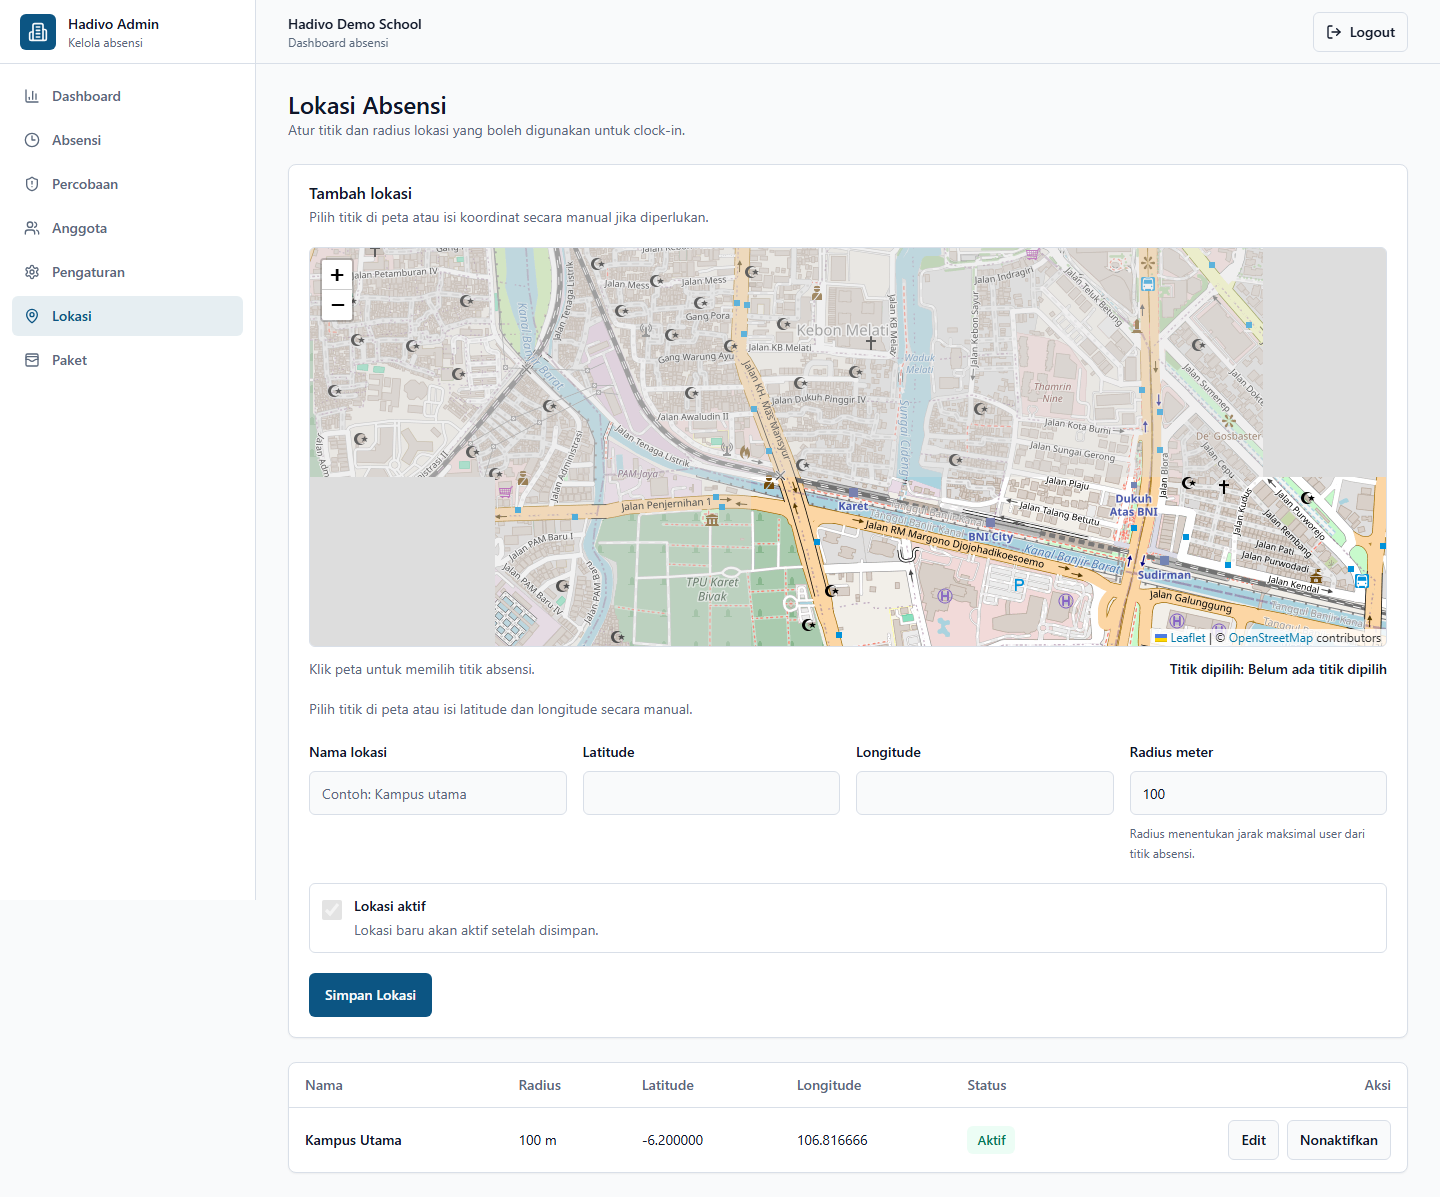
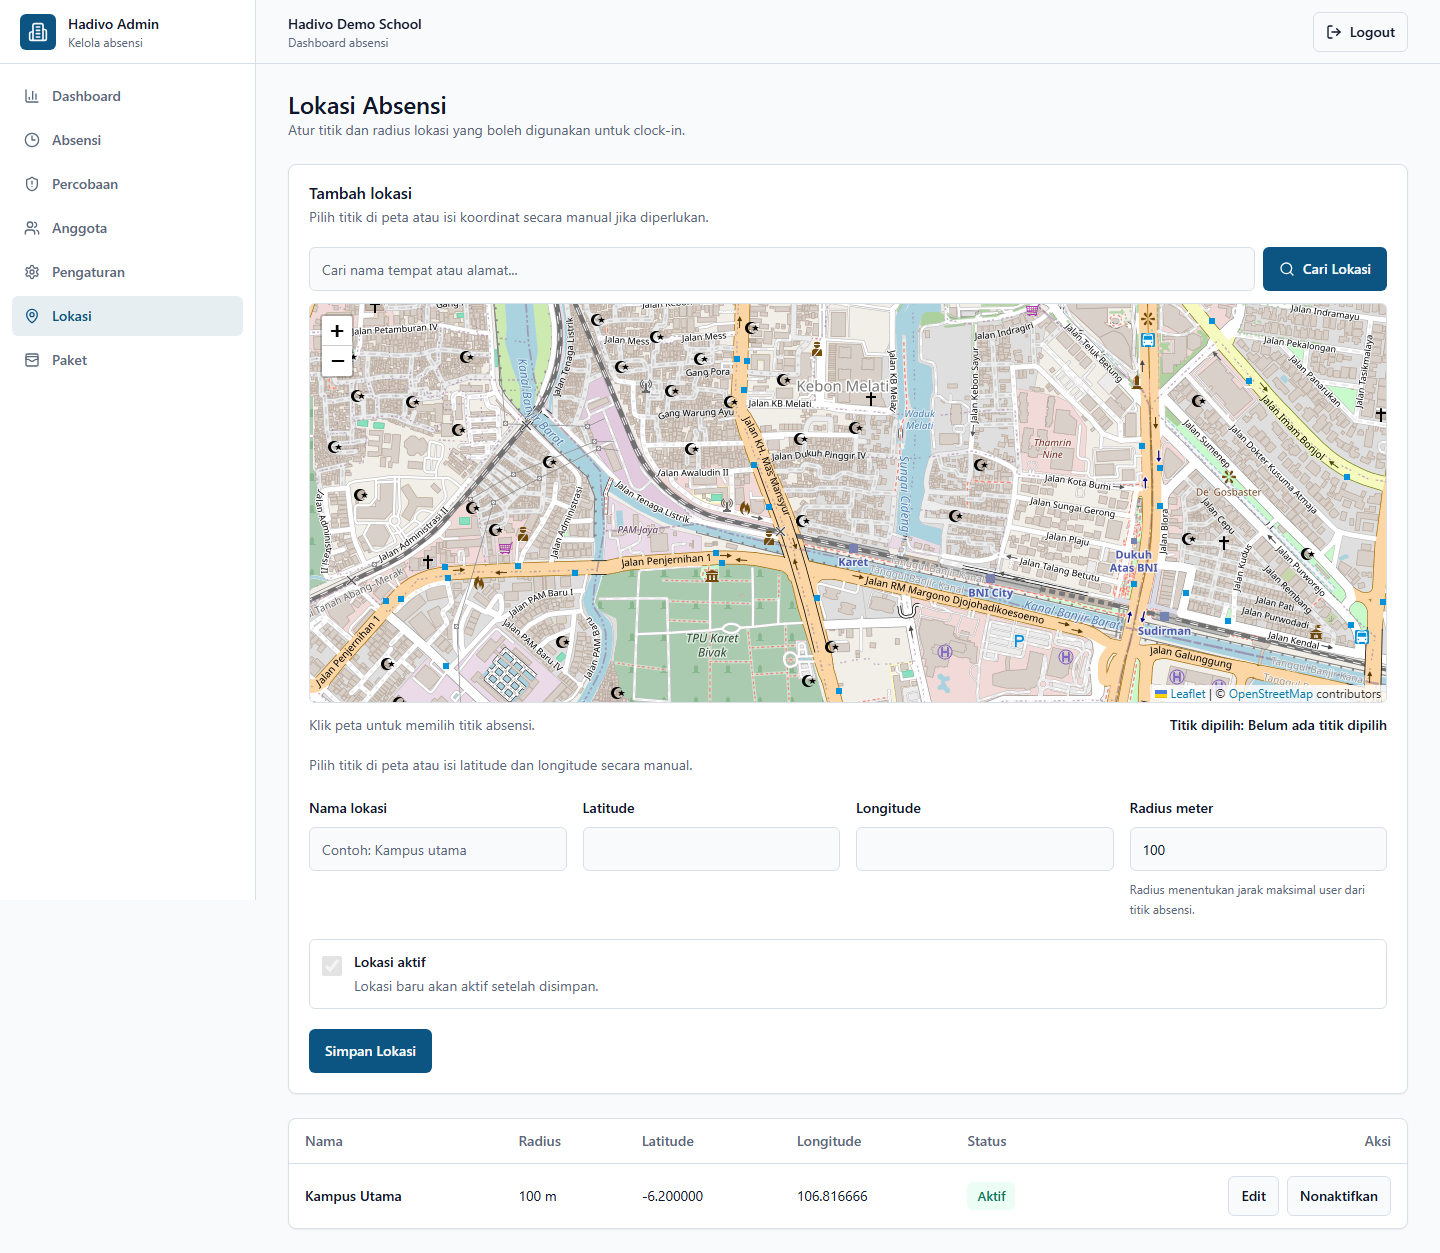
feat: add address search for location picker

diff --git a/web/src/components/locations/location-map-picker.tsx b/web/src/components/locations/location-map-picker.tsx
@@ -2,9 +2,13 @@
 
 import { LeafletProvider, createLeafletContext, type LeafletContextInterface } from "@react-leaflet/core";
 import L, { Map as LeafletMap, type LatLngExpression, type LeafletMouseEvent } from "leaflet";
-import { useCallback, useEffect, useMemo, useRef, useState, type ReactNode } from "react";
+import { Search } from "lucide-react";
+import { useCallback, useEffect, useMemo, useRef, useState, type KeyboardEvent, type ReactNode } from "react";
 import { Circle, Marker, TileLayer, useMap, useMapEvents } from "react-leaflet";
 import { cn } from "@/lib/utils";
+import { searchPlaces, type PlaceSearchResult } from "@/lib/map/nominatim";
+import { Button } from "@/components/ui/button";
+import { Input } from "@/components/ui/input";
 
 export type LocationCoordinate = {
   latitude: number;
@@ -16,6 +20,7 @@ type LocationMapPickerProps = {
   value?: LocationCoordinate | null;
   radiusMeters: number;
   onChange: (coordinate: LocationCoordinate) => void;
+  onPlaceSelect?: (place: PlaceSearchResult) => void;
   className?: string;
 };
 
@@ -36,8 +41,16 @@ export function LocationMapPicker({
   value,
   radiusMeters,
   onChange,
+  onPlaceSelect,
   className,
 }: LocationMapPickerProps) {
+  const [query, setQuery] = useState("");
+  const [results, setResults] = useState<PlaceSearchResult[]>([]);
+  const [searchStatus, setSearchStatus] = useState<"idle" | "loading" | "success" | "empty" | "error">("idle");
+  const [searchMessage, setSearchMessage] = useState("");
+  const [selectedPlaceMessage, setSelectedPlaceMessage] = useState("");
+  const requestRef = useRef(0);
+  const abortRef = useRef<AbortController | null>(null);
   const selectedPosition = useMemo<LatLngExpression | null>(() => {
     if (!value) return null;
     return [value.latitude, value.longitude];
@@ -54,15 +67,130 @@ export function LocationMapPicker({
 
   const visibleRadius = Number.isFinite(radiusMeters) && radiusMeters > 0 ? radiusMeters : 100;
 
+  useEffect(() => {
+    return () => abortRef.current?.abort();
+  }, []);
+
+  async function handleSearch() {
+    const keyword = query.trim();
+    setSelectedPlaceMessage("");
+
+    if (keyword.length < 3) {
+      abortRef.current?.abort();
+      setResults([]);
+      setSearchStatus("idle");
+      setSearchMessage("Masukkan minimal 3 karakter untuk mencari lokasi.");
+      return;
+    }
+
+    abortRef.current?.abort();
+    const requestId = requestRef.current + 1;
+    const controller = new AbortController();
+    requestRef.current = requestId;
+    abortRef.current = controller;
+    setSearchStatus("loading");
+    setSearchMessage("");
+
+    try {
+      const places = await searchPlaces(keyword, {
+        signal: controller.signal,
+        language: typeof navigator !== "undefined" ? navigator.language : undefined,
+      });
+
+      if (requestRef.current !== requestId) return;
+      setResults(places);
+      setSearchStatus(places.length ? "success" : "empty");
+      setSearchMessage(places.length ? "" : "Lokasi tidak ditemukan. Coba kata kunci lain.");
+    } catch (error) {
+      if (controller.signal.aborted) return;
+      if (requestRef.current !== requestId) return;
+      setResults([]);
+      setSearchStatus("error");
+      setSearchMessage(
+        error instanceof Error
+          ? error.message
+          : "Pencarian lokasi sedang tidak tersedia. Anda tetap bisa memilih titik langsung dari peta.",
+      );
+    }
+  }
+
+  function handleSearchKeyDown(event: KeyboardEvent<HTMLInputElement>) {
+    if (event.key !== "Enter") return;
+    event.preventDefault();
+    if (searchStatus === "loading") return;
+    void handleSearch();
+  }
+
+  function selectPlace(place: PlaceSearchResult) {
+    const coordinate = {
+      latitude: roundCoordinate(place.latitude),
+      longitude: roundCoordinate(place.longitude),
+    };
+
+    onChange(coordinate);
+    onPlaceSelect?.(place);
+    setResults([]);
+    setSearchStatus("idle");
+    setSearchMessage("");
+    setQuery(place.displayName);
+    setSelectedPlaceMessage("Lokasi dipilih dari hasil pencarian. Silakan cek titik marker dan radius sebelum menyimpan.");
+  }
+
   return (
     <div className={cn("space-y-3", className)}>
+      <div className="space-y-2">
+        <div className="flex flex-col gap-2 sm:flex-row">
+          <Input
+            type="search"
+            value={query}
+            onChange={(event) => {
+              setQuery(event.target.value);
+              setSelectedPlaceMessage("");
+            }}
+            placeholder="Cari nama tempat atau alamat..."
+            aria-label="Cari nama tempat atau alamat"
+            autoComplete="off"
+            onKeyDown={handleSearchKeyDown}
+          />
+          <Button type="button" className="shrink-0" disabled={searchStatus === "loading"} onClick={() => void handleSearch()}>
+            <Search className="mr-2 h-4 w-4" />
+            {searchStatus === "loading" ? "Mencari..." : "Cari Lokasi"}
+          </Button>
+        </div>
+        {searchMessage ? <p className="text-sm text-muted-foreground">{searchMessage}</p> : null}
+        {selectedPlaceMessage ? <p className="text-sm text-emerald-700">{selectedPlaceMessage}</p> : null}
+        {results.length ? (
+          <div className="max-h-64 overflow-y-auto rounded-md border bg-background">
+            {results.map((place) => (
+              <button
+                key={`${place.latitude}-${place.longitude}-${place.displayName}`}
+                type="button"
+                className="block w-full border-b px-3 py-3 text-left text-sm last:border-b-0 hover:bg-muted focus-visible:outline-none focus-visible:ring-2 focus-visible:ring-ring"
+                onClick={() => selectPlace(place)}
+              >
+                <span className="block font-medium">{place.displayName}</span>
+                {place.category || place.type ? (
+                  <span className="mt-1 block text-xs text-muted-foreground">
+                    {[place.category, place.type].filter(Boolean).join(" - ")}
+                  </span>
+                ) : null}
+              </button>
+            ))}
+          </div>
+        ) : null}
+      </div>
       <div className="h-[320px] min-w-0 overflow-hidden rounded-md border bg-muted sm:h-[360px] lg:h-[400px]">
         <SafeMapContainer center={mapCenter} zoom={16} scrollWheelZoom className="h-full w-full">
           <TileLayer
             attribution='&copy; <a href="https://www.openstreetmap.org/copyright">OpenStreetMap</a> contributors'
             url="https://{s}.tile.openstreetmap.org/{z}/{x}/{y}.png"
           />
-          <ClickHandler onChange={onChange} />
+          <ClickHandler
+            onChange={(coordinate) => {
+              setSelectedPlaceMessage("");
+              onChange(coordinate);
+            }}
+          />
           <MapSync center={mapCenter} selectedPosition={selectedPosition} />
           {selectedPosition ? (
             <>

diff --git a/web/src/lib/map/nominatim.ts b/web/src/lib/map/nominatim.ts
@@ -1,0 +1,69 @@
+export type PlaceSearchResult = {
+  displayName: string;
+  latitude: number;
+  longitude: number;
+  type?: string;
+  category?: string;
+};
+
+type SearchPlacesOptions = {
+  signal?: AbortSignal;
+  language?: string;
+};
+
+type NominatimSearchItem = {
+  display_name?: string;
+  lat?: string;
+  lon?: string;
+  type?: string;
+  class?: string;
+};
+
+const nominatimSearchUrl = "https://nominatim.openstreetmap.org/search";
+
+export async function searchPlaces(query: string, options: SearchPlacesOptions = {}): Promise<PlaceSearchResult[]> {
+  const keyword = query.trim();
+  if (keyword.length < 3) return [];
+
+  const params = new URLSearchParams({
+    q: keyword,
+    format: "json",
+    limit: "5",
+    addressdetails: "1",
+  });
+
+  if (options.language) {
+    params.set("accept-language", options.language);
+  }
+
+  const response = await fetch(`${nominatimSearchUrl}?${params.toString()}`, {
+    signal: options.signal,
+    headers: {
+      Accept: "application/json",
+    },
+  });
+
+  if (!response.ok) {
+    throw new Error("Pencarian lokasi sedang tidak tersedia. Anda tetap bisa memilih titik langsung dari peta.");
+  }
+
+  const items = (await response.json()) as NominatimSearchItem[];
+  return items.map(toPlaceSearchResult).filter((item): item is PlaceSearchResult => item != null);
+}
+
+function toPlaceSearchResult(item: NominatimSearchItem): PlaceSearchResult | null {
+  const latitude = Number(item.lat);
+  const longitude = Number(item.lon);
+
+  if (!item.display_name || !Number.isFinite(latitude) || !Number.isFinite(longitude)) {
+    return null;
+  }
+
+  return {
+    displayName: item.display_name,
+    latitude,
+    longitude,
+    type: item.type,
+    category: item.class,
+  };
+}

diff --git a/web/src/app/(dashboard)/locations/page.tsx b/web/src/app/(dashboard)/locations/page.tsx
@@ -169,6 +169,14 @@ export default function LocationsPage() {
                 form.setValue("latitude", coordinate.latitude, { shouldDirty: true, shouldValidate: true });
                 form.setValue("longitude", coordinate.longitude, { shouldDirty: true, shouldValidate: true });
               }}
+              onPlaceSelect={(place) => {
+                if (!form.getValues("name").trim()) {
+                  form.setValue("name", getPlaceNameSuggestion(place.displayName), {
+                    shouldDirty: true,
+                    shouldValidate: true,
+                  });
+                }
+              }}
             />
             {!selectedCoordinate ? (
               <p className="text-sm text-muted-foreground">Pilih titik di peta atau isi latitude dan longitude secara manual.</p>
@@ -361,4 +369,8 @@ function getDefaultMapCenter(locations?: Location[]): Coordinate {
     latitude: location.latitude,
     longitude: location.longitude,
   };
+}
+
+function getPlaceNameSuggestion(displayName: string) {
+  return displayName.split(",")[0]?.trim() || displayName;
 }

diff --git a/README.md b/README.md
@@ -26,7 +26,7 @@ Repository ini berisi backend Fase 1 (MVP), web dashboard admin Fase 2, dan mobi
 - Attendance attempts audit untuk percobaan gagal seperti `OUT_OF_RADIUS`, `FACE_MISMATCH`, dan `DUPLICATE_CLOCK_IN`.
 - Role-based dashboard untuk admin tenant, manager, teacher, employee, student, dan parent.
 - Web dashboard untuk login, summary, attendance, attempts, members, settings, locations, dan subscription.
-- Halaman Locations web memakai map picker berbasis Leaflet + OpenStreetMap untuk memilih titik absensi dan melihat radius geofence.
+- Halaman Locations web memakai map picker berbasis Leaflet + OpenStreetMap dengan address search Nominatim untuk memilih titik absensi dan melihat radius geofence.
 - Flutter mobile MVP untuk login, attendance hari ini, clock-in, clock-out, history, profile, dan logout.
 - UX web dan mobile memakai label sederhana, status badge, empty state, dan pesan error yang lebih mudah dipahami user awam.
 - Event notification pipeline memakai RabbitMQ.
@@ -74,7 +74,7 @@ npm run dev
 
 Web dashboard tersedia di <http://localhost:3000>. Login default: `superadmin@hadivo.local` / `ChangeMe123!`.
 
-Halaman Locations menyediakan map picker berbasis Leaflet + OpenStreetMap. Admin dapat klik peta untuk mengisi latitude/longitude, melihat marker, dan melihat circle radius sebelum menyimpan. Fitur ini tidak membutuhkan Google Maps API key, billing, atau akun pihak ketiga. Untuk traffic production yang besar, gunakan tile provider resmi/berbayar atau self-hosted tile yang sesuai dengan policy OpenStreetMap.
+Halaman Locations menyediakan map picker berbasis Leaflet + OpenStreetMap. Admin dapat klik peta untuk mengisi latitude/longitude, melihat marker, dan melihat circle radius sebelum menyimpan. Admin juga dapat mencari alamat atau nama tempat memakai Nominatim OpenStreetMap lewat tombol Cari Lokasi atau tombol Enter; fitur ini bukan live autocomplete. Fitur ini tidak membutuhkan Google Maps API key, billing, atau akun pihak ketiga. Untuk traffic production yang besar, gunakan tile/geocoding provider resmi/berbayar atau self-hosted tile/Nominatim yang sesuai dengan policy OpenStreetMap.
 
 Detail langkah-langkah ada di [`docs/10-local-development.md`](docs/10-local-development.md).
 
@@ -178,9 +178,9 @@ Swagger and Postman screenshots can be added after manual capture.
 - Tidak ada WebSocket atau realtime push.
 - Tidak ada export PDF/Excel untuk laporan attendance.
 - Device binding belum strict; `DEVICE_MISMATCH` masih reserved enum.
-- Locations web belum memiliki address search, autocomplete, atau geocoding.
+- Address search Locations web memakai Nominatim OpenStreetMap untuk demo/portfolio dan request ringan, bukan live autocomplete.
 - Tidak ada integrasi Google Maps.
-- Tile OpenStreetMap public sebaiknya diganti tile provider resmi/berbayar atau self-hosted tile untuk traffic production yang besar.
+- Tile OpenStreetMap public dan public Nominatim sebaiknya diganti provider resmi/berbayar atau self-hosted tile/Nominatim untuk traffic production yang besar.
 - Mobile app belum memiliki offline mode, push notification, map view, dan face recognition asli.
 
 ## Roadmap

diff --git a/docs/07-geolocation-validation.md b/docs/07-geolocation-validation.md
@@ -23,16 +23,17 @@ d = R · c
 
 ## Web location picker
 
-Halaman Locations di web dashboard menyediakan map picker berbasis Leaflet + OpenStreetMap untuk membantu admin memilih latitude/longitude dan melihat radius geofence. Fitur ini hanya memperbaiki input admin; validasi clock-in/clock-out tetap dilakukan backend dengan aturan Haversine yang sama.
+Halaman Locations di web dashboard menyediakan map picker berbasis Leaflet + OpenStreetMap untuk membantu admin memilih latitude/longitude dan melihat radius geofence. Admin juga dapat mencari alamat atau nama tempat memakai Nominatim OpenStreetMap lewat tombol Cari Lokasi atau Enter. Search ini tidak memakai Google Maps, Mapbox, API key, atau live autocomplete. Fitur ini hanya memperbaiki input admin; validasi clock-in/clock-out tetap dilakukan backend dengan aturan Haversine yang sama.
 
 ## Limitation
 
 - Tidak ada perhitungan elevasi.
 - Tidak ada deteksi spoofing GPS.
 - Tidak ada tracking pergerakan saat di dalam radius. Hanya snapshot saat clock-in / clock-out.
-- Tidak ada address search, autocomplete, atau geocoding.
+- Address search memakai public Nominatim untuk demo/portfolio dan request ringan.
+- Tidak ada live autocomplete.
 - Tidak ada map view di mobile app.
-- Untuk traffic production yang besar, tile OpenStreetMap public sebaiknya diganti tile provider resmi/berbayar atau self-hosted tile sesuai policy OpenStreetMap.
+- Untuk traffic production yang besar, tile OpenStreetMap public dan public Nominatim sebaiknya diganti provider resmi/berbayar atau self-hosted tile/Nominatim sesuai policy OpenStreetMap.
 
 ## Test
 
